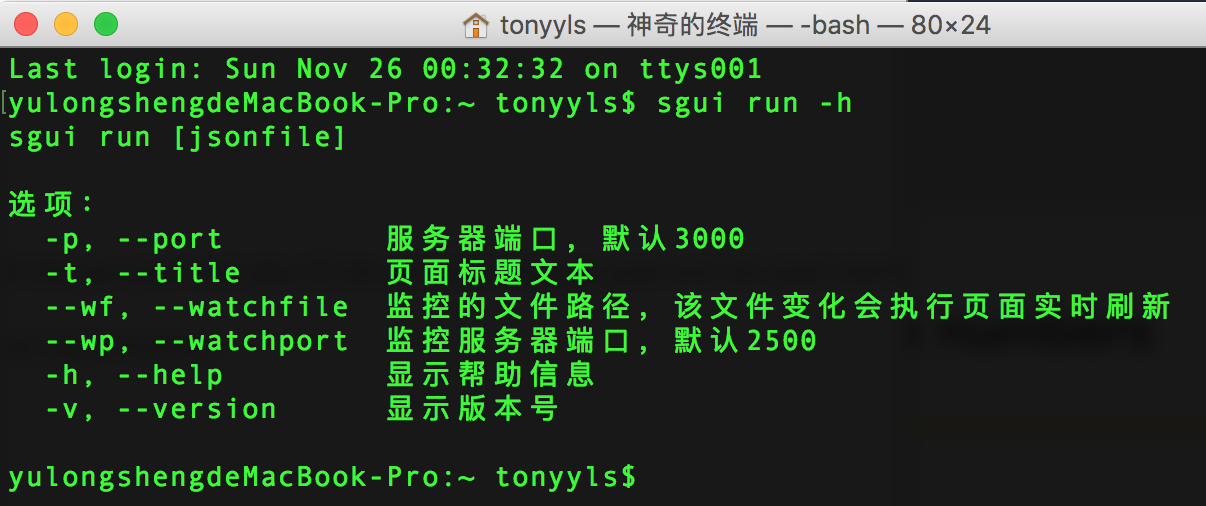
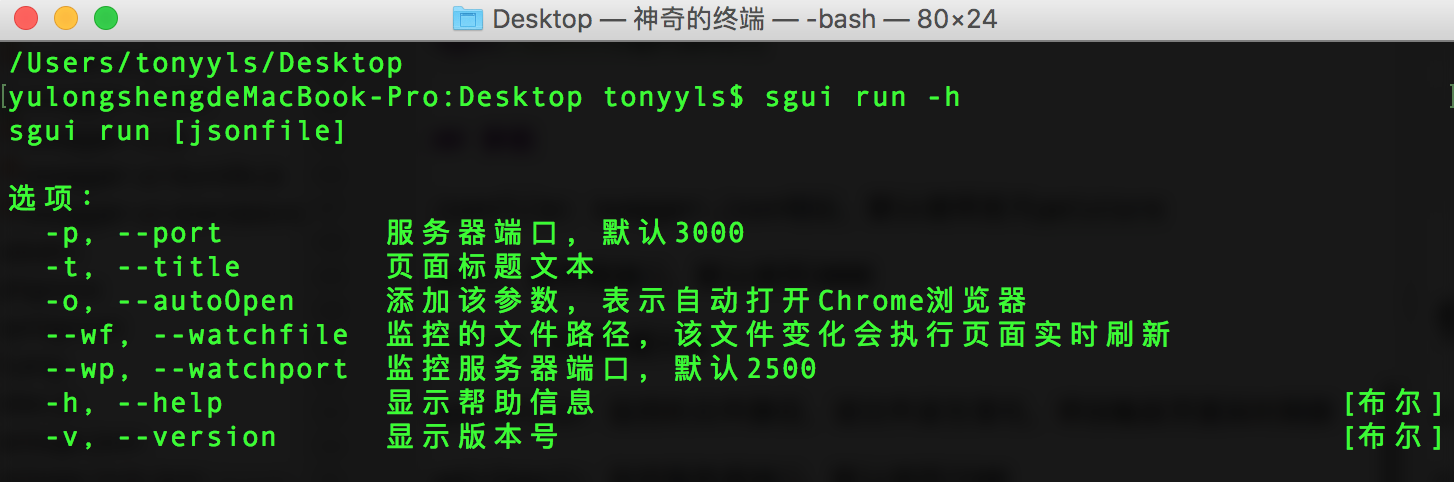
完善文档

diff --git a/README.md b/README.md
@@ -53,3 +53,5 @@ title: 页面标题文本
 watchfile: 监控的文件路径，该文件发生变化，将会触发页面实时刷新
 
 watchport: 监控服务器端口，默认使用2500
+
+autoOpen: 自动打开Chrome浏览器
